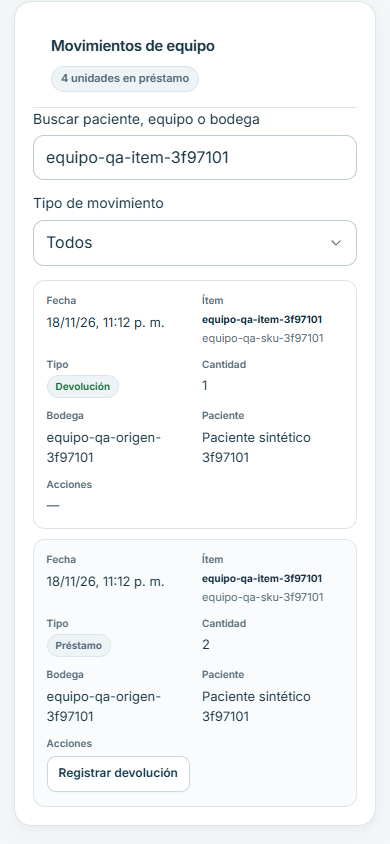
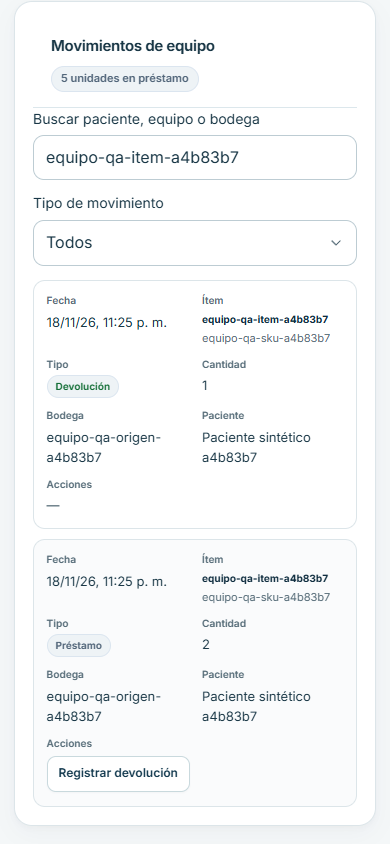
Record verified inventory deployment and public receivable check

diff --git a/docs/deployment/CONTABO_INV18_2026-11-18.md b/docs/deployment/CONTABO_INV18_2026-11-18.md
@@ -1,0 +1,23 @@
+# Inventario, compras y actualización de precios en Contabo
+
+El 18 de noviembre de 2026 se publicó en Contabo el commit `6c8d9601e3b8d99b2140bee7101004f36d9dd9a8`. GitHub recibió el código antes de compilarlo en el VPS. La misma versión pasó los recorridos aislados de catálogo y cotizaciones, solicitudes agrupadas, compras y préstamos. [Cambios, decisiones y pruebas](../qa/CLIENT_INV18_2026-11-18.md).
+
+| Control de publicación | Resultado verificado |
+|---|---|
+| Versión anterior | `e91949373a5d94c7fdc9b1eeecf2379629d7688c` |
[1 lines of base64/hex data omitted]
+| Nueva imagen web | `sha256:4eda7821c0d597226b65a5109df35e32212201de8301d4454e8c925ce6b18a9f` |
[1 lines of base64/hex data omitted]
+| PostgreSQL | Migraciones 042 a 045 aplicadas. Web y base saludables, salud pública HTTP 200. |
+
+El despliegue verificó el respaldo local y la presencia del volcado, su nombre y su suma de comprobación. Hubo una conexión reiniciada durante el arranque. El chequeo de disponibilidad y las pruebas públicas posteriores respondieron correctamente. El alcance del lote no incluyó una restauración de este respaldo ni la comprobación de su copia externa.
+
+## Comprobación financiera en producción
+
+Se utilizó la organización de pruebas y una cotización ficticia de la versión anterior. Tenía tres unidades adicionales a precio pendiente, total de USD 18, descuento del 10 % aplicable al insumo, seguro de USD 3 y un pago de USD 5. Dos peticiones simultáneas guardaron el precio de USD 10 en el catálogo. El total quedó en USD 45 y el saldo en USD 37. Las dos versiones emitidas anteriores y el movimiento original del pago se conservaron íntegros. La pantalla de cuentas mostró una sola fila para esa cotización y el detalle mostró una sola línea adicional. Los reintentos posteriores conservaron los mismos importes y el mismo número de versiones. [Resultados públicos con datos ficticios](../qa/evidence/inv18-20261118/public-financial.json).
+
+La consulta posterior sobre las solicitudes con evidencia de precio pendiente encontró cero asignaciones pendientes con un precio positivo disponible en el catálogo activo. Las operaciones de escritura de la prueba pública se limitaron a datos ficticios. Se verificaron siete rutas públicas con sesión a 390 px, sin desbordamiento horizontal del documento ni excepciones de JavaScript.
+
+Cinco lecturas autenticadas de la primera página de Precotización dieron una mediana de 188 ms antes de publicar y 119 ms después. Miden llamadas HTTP desde el cliente de pruebas. La carga y el tiempo de red pueden variar.
+
+Para la recuperación se conservan la imagen previa y la configuración del despliegue anterior en el VPS. La reversión de la web conserva las migraciones aditivas. Los detalles del procedimiento están en la [guía de operación](CONTABO_OPERATOR_HANDOFF.md).

diff --git a/docs/qa/CLIENT_INV18_2026-11-18.md b/docs/qa/CLIENT_INV18_2026-11-18.md
@@ -20,3 +20,5 @@ La búsqueda de líneas pendientes usa organización, artículo, asignación y e
 - Una solicitud de nueve líneas cubrió las ocho categorías entre enfermería y revisión. El total quedó en 88 y el saldo en 85 después de conservar un abono de 3. Se verificaron el reintento de la ampliación y la ausencia de movimientos de inventario al cotizar.
 - Las pruebas de compras cubrieron la diferencia entre cantidad pedida y recibida, la impresión y la aprobación financiera separada. Las de equipo incluyeron un préstamo, su devolución parcial y el rechazo de una devolución superior al saldo.
 - Pasaron las 390 pruebas unitarias y de servidor. El navegador ejercitó la solicitud desde móvil, la revisión de adicionales, la recepción y el préstamo de equipo. También pasaron ocho recorridos conectados de regresión para pacientes, cotizaciones, pedidos y cuentas por cobrar.
+
+Se repitieron cuatro recorridos conectados sobre el mismo commit publicado en producción. [Solicitud desde enfermería](evidence/inv18-20261118/nursing-group-mobile.png). [Revisión de adicionales](evidence/inv18-20261118/prequote-group-desktop.png). [Devolución desde móvil](evidence/inv18-20261118/devolucion-movil.png). [Verificación en Contabo](../deployment/CONTABO_INV18_2026-11-18.md).
